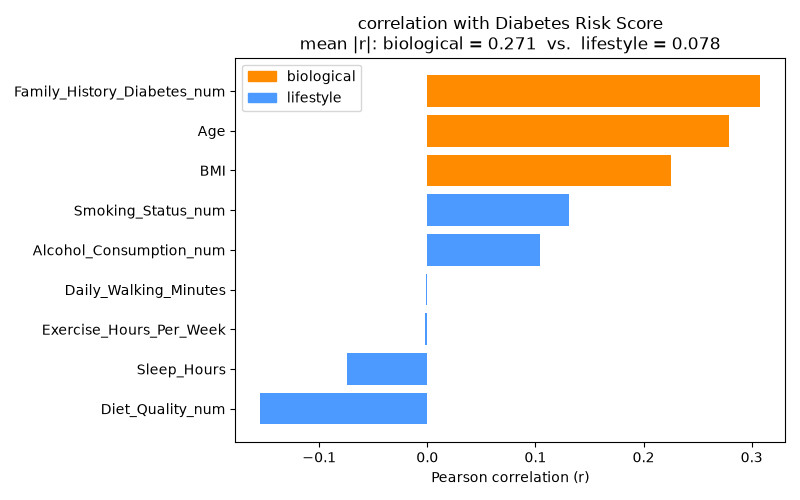
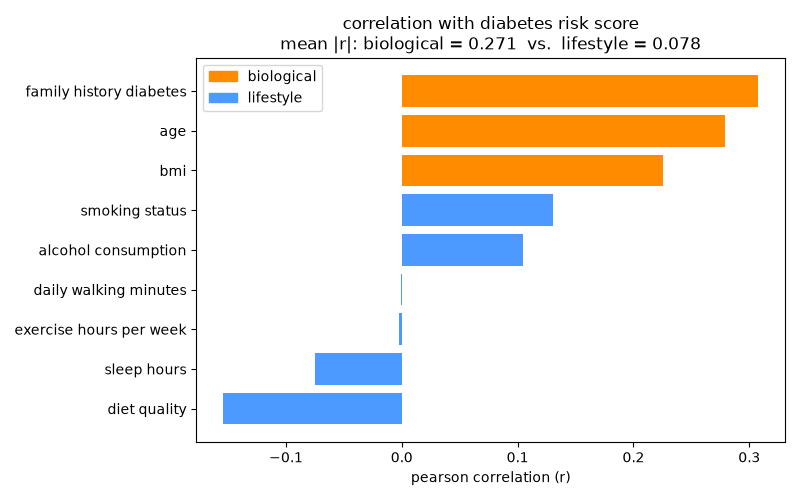
updated main.r and plots.py, added the t-test

diff --git a/plots.py b/plots.py
@@ -1,7 +1,7 @@
 # diabetes risk analysis
 
-# this file reads the correlation_results.csv and plot.csv exported 
-# from main.r, and produces 3 plots:
+# this file reads the correlation_results.csv and plot_data.csv exported 
+# by main.r, and produces 3 plots:
 # 1. correlation_comparison.png: lifestyle vs biological correlation
 #    strength with Diabetes_Risk_Score
 # 2. risk_score_distribution.png: distribution of the outcome 
@@ -14,7 +14,7 @@ import matplotlib.pyplot as plt
 
 # plot 1: correlation comparison chart
 
-# load the correlation table computed from the R file
+# load the correlation table computed by main.r
 results = pd.read_csv("correlation_results.csv")
 
 # sort by correlation value from smallest to largest
@@ -32,19 +32,22 @@ colors = results["Group"].map({"lifestyle": "#4C9AFF", "biological": "#FF8C00"})
 # figsize sets the plot's width and height
 fig1, ax1 = plt.subplots(figsize=(8, 5))
 
+# make the variable names readable by removing "_num" and replacing the "_" with a space and to lower case
+labels = results["Variable"].str.replace("_num", "").str.replace("_", " ").str.lower()
+
 # barh() draws a horizontal bar chart
-ax1.barh(results["Variable"], results["Correlation"], color=colors)
-ax1.set_xlabel("Pearson correlation (r)")
+ax1.barh(labels, results["Correlation"], color=colors)
+ax1.set_xlabel("pearson correlation (r)")
 
 # the title has a subtitle line with the two group means, with 3 decimal
 # places each (.3f)
 ax1.set_title(
-    "correlation with Diabetes Risk Score\n"
+    "correlation with diabetes risk score\n"
     f"mean |r|: biological = {mean_abs_biological:.3f}  vs.  "
     f"lifestyle = {mean_abs_lifestyle:.3f}"
 )
 
-# barh() doesn't generate a legend by group, so it is built manually.
+# barh() doesn't generate a legend by group, so it is built manually
 legend_handles = [
     plt.Rectangle((0, 0), 1, 1, color="#FF8C00", label="biological"),
     plt.Rectangle((0, 0), 1, 1, color="#4C9AFF", label="lifestyle"),
@@ -57,29 +60,28 @@ plt.tight_layout()
 # saves the figure as a PNG file
 plt.savefig("correlation_comparison.png")
 
-# displays the plot in a separate window, the scirpt is paused here until
-#the window is closed
+# displays the plot in a separate window, the script is paused here until
+# the window is closed
 plt.show()
 
 # plot 2: distribution of Diabetes_Risk_Score
 
-# load the columns exported main.r
+# load the columns exported by main.r
 data = pd.read_csv("plot_data.csv")
 
 fig2, ax2 = plt.subplots(figsize=(7, 5))
 
 # hist() groups Diabetes_Risk_Score values into 30 bins, then counts 
 # how many patients fall into each one
-# each bin covers a value of 2.9, for 30 bins
 ax2.hist(data["Diabetes_Risk_Score"], bins=30, color="#4C9AFF", edgecolor="white")
-ax2.set_xlabel("Diabetes Risk Score")
+ax2.set_xlabel("diabetes risk score")
 ax2.set_ylabel("number of patients")
-ax2.set_title("distribution of Diabetes Risk Score")
+ax2.set_title("distribution of diabetes risk score")
 plt.tight_layout()
 plt.savefig("risk_score_distribution.png")
 plt.show()
 
-# plot 3: boxplot of risk score by family history of Diabetes
+# plot 3: boxplot of risk score by family history of diabetes
 
 # split the risk score column into two groups based on the family history
 yes_group = data[data["Family_History_Diabetes"] == "Yes"]["Diabetes_Risk_Score"]
@@ -87,11 +89,11 @@ no_group  = data[data["Family_History_Diabetes"] == "No"]["Diabetes_Risk_Score"]
 
 fig3, ax3 = plt.subplots(figsize=(7, 5))
 
-# boxplot() draws one box per gorup in the list, containing the median, 
+# boxplot() draws one box per group in the list, containing the median, 
 # interquartile range, and its outliers for each
-ax3.boxplot([no_group, yes_group], tick_labels=["No", "Yes"])
+ax3.boxplot([no_group, yes_group], tick_labels=["no", "yes"])
 ax3.set_xlabel("family history of diabetes")
-ax3.set_ylabel("Diabetes Risk Score")
+ax3.set_ylabel("diabetes risk score")
 ax3.set_title("risk score by family history of diabetes")
 plt.tight_layout()
 plt.savefig("risk_by_family_history.png")
